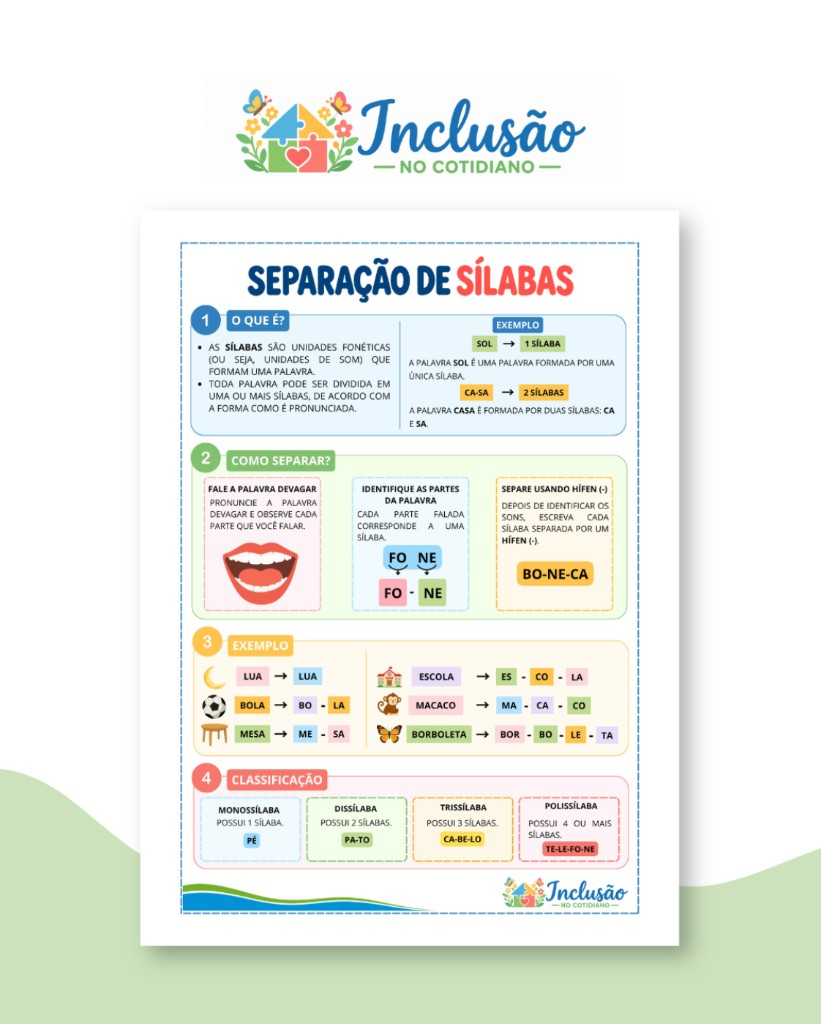
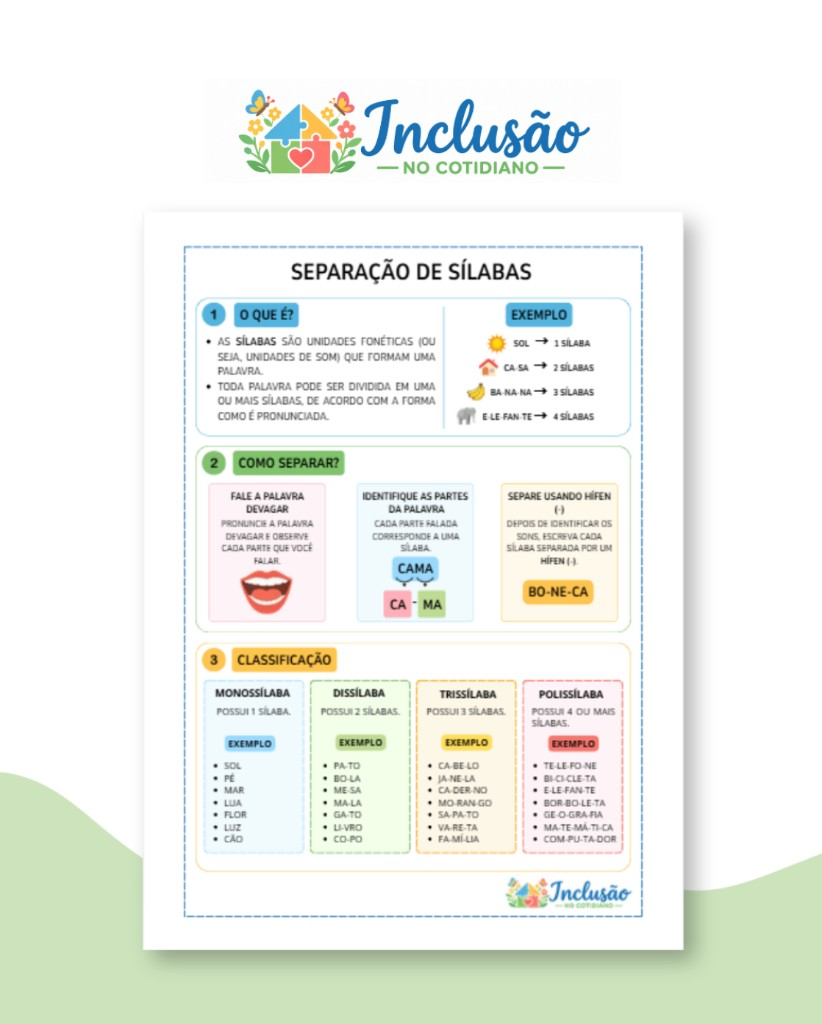
Troca a capa do infográfico de separação de sílabas pela arte corrigida.

diff --git a/js/loja.js b/js/loja.js
@@ -124,8 +124,8 @@ const loja = {
       preco: 4.9,
       download: "infografico-separacao-de-silabas.pdf",
       pagina: "atividade.html?id=silabas",
-      capa: "img/capa-silabas.png?v=1",
-      capaAlt: "Infográfico de separação de sílabas, com a casa de quebra-cabeça, exemplos de palavras e a classificação em monossílaba, dissílaba, trissílaba e polissílaba.",
+      capa: "img/capa-silabas.png?v=2",
+      capaAlt: "Infográfico de separação de sílabas, com exemplos de sol, casa, banana e elefante, o passo a passo da separação e a classificação em monossílaba, dissílaba, trissílaba e polissílaba.",
     },
     {
       id: "celulas",

diff --git a/atividade.html b/atividade.html
@@ -145,7 +145,7 @@
       </div>
     </dialog>
 
-    <script src="js/loja.js?v=43"></script>
+    <script src="js/loja.js?v=44"></script>
     <script src="js/pix.js?v=21"></script>
     <script src="js/vendor/supabase.js?v=1"></script>
     <script type="module" src="js/sessao.js?v=10"></script>

diff --git a/index.html b/index.html
@@ -204,7 +204,7 @@
       </div>
     </dialog>
 
-    <script src="js/loja.js?v=43"></script>
+    <script src="js/loja.js?v=44"></script>
     <script src="js/pix.js?v=21"></script>
     <script src="js/historia.js?v=2"></script>
     <script src="js/vendor/supabase.js?v=1"></script>
